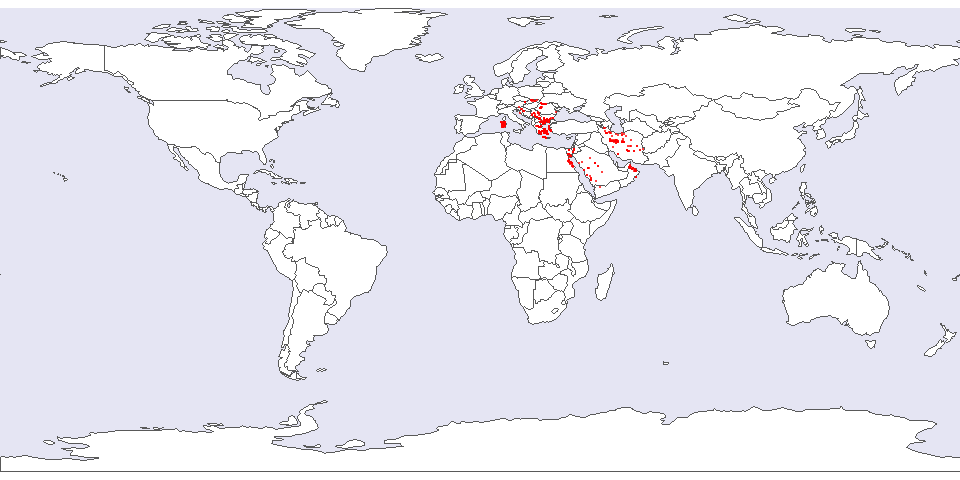
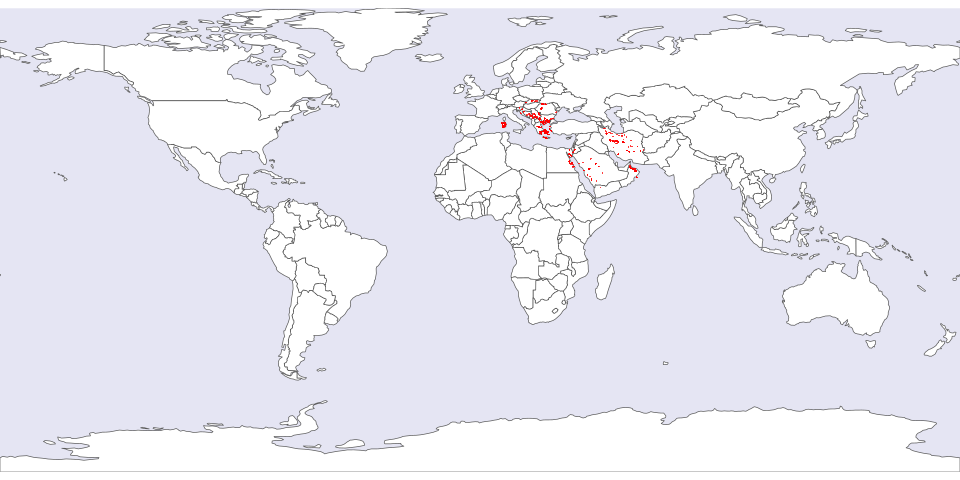
update DB

diff --git a/README.md b/README.md
@@ -76,8 +76,9 @@ Interested? Write us!
     [![](https://info.orcid.org/wp-content/uploads/2019/11/orcid_16x16.png)](https://orcid.org/0000-0002-8186-3566)
     (Department of Archaeology, Ben-Gurion University of the Negev,
     Be’er Sheva, Israel; Department of Antiquity, Sapienza University of
-    Rome, Rome, Italy; Forschungsbereich Archäometallurgie, Leibniz-Forschungsmuseum für
-    Georessourcen/Deutsches Bergbau-Museum Bochum, Bochum, Germany)
+    Rome, Rome, Italy; Forschungsbereich Archäometallurgie,
+    Leibniz-Forschungsmuseum für Georessourcen/Deutsches Bergbau-Museum
+    Bochum, Bochum, Germany)
 -   East Asia: [Yiu-Kang
     Hsu](https://www.bergbaumuseum.de/en/museum/mitarbeitende/kontakt-detailseite/yiu-kang-hsu)
     [![](https://info.orcid.org/wp-content/uploads/2019/11/orcid_16x16.png)](https://orcid.org/0000-0002-2439-4863)

diff --git a/NEWS.md b/NEWS.md
@@ -1,9 +1,13 @@
 # Version 1.1 (in progress)
 
-* Additional data from Greece (contributor: K. J. Westner)
-* Additional data from Bulgaria (contributor: K. J. Westner)
-* The detection pattern of the function `LI_ratios_all()` was improved. 
+* Additional data for
+  + Bosnia and Herzegovina (contributor: K. J. Westner)
+  + Bulgaria (contributor: K. J. Westner)
+  + Greece (contributor: K. J. Westner)
+  + Kosovo (contributor: K. J. Westner)
+  + Serbia (contributor: K. J. Westner)
 
+* The detection pattern of the function `LI_ratios_all()` was improved. 
 
 # Version 1.0 
 
